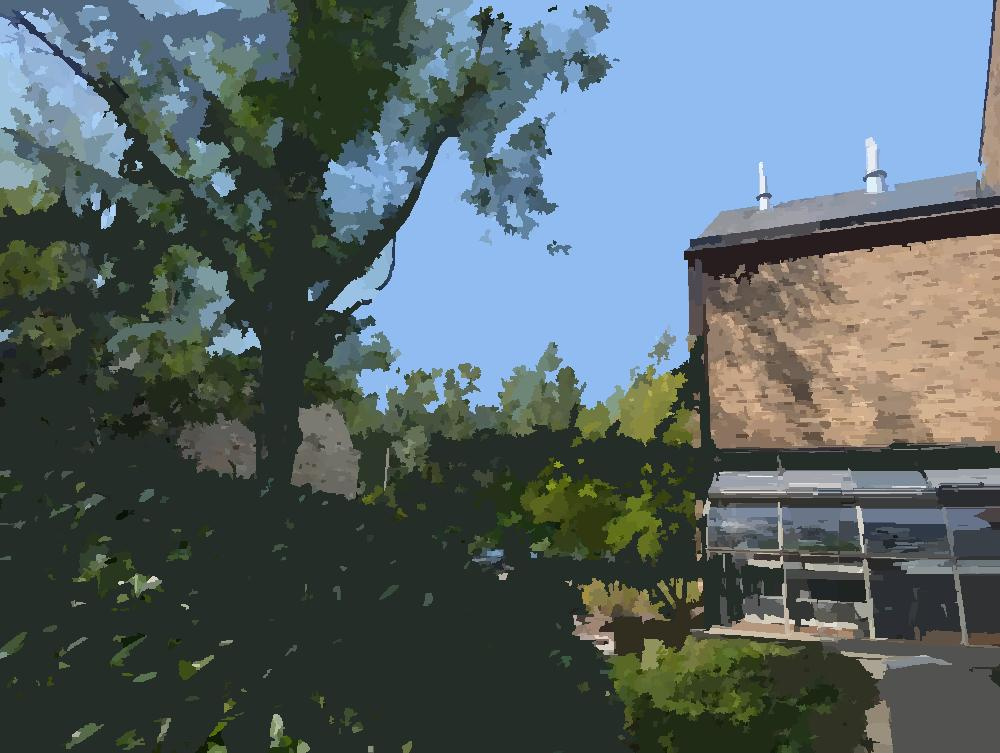
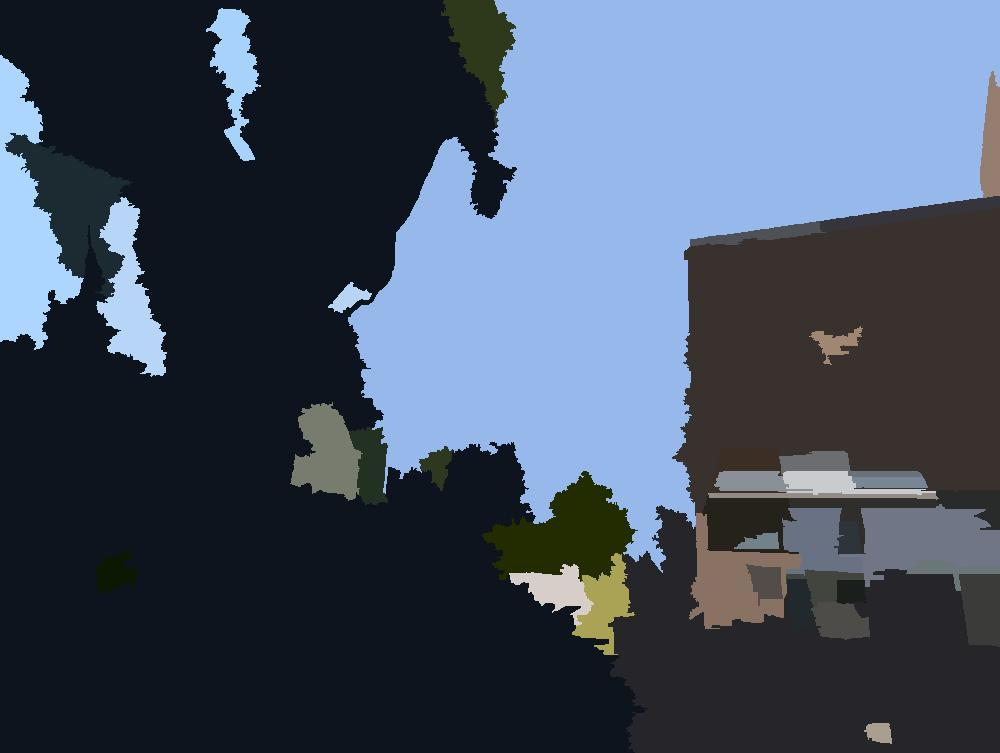
reset project

diff --git a/main.py b/main.py
@@ -1,14 +1,28 @@
-from . import color_averaged_uf as uf
+from .color_averaged_uf import ColorAveragedUF as UF
 from PIL import Image
 
 def segment_image(image, threshold = 100, min_size = 10):
     #TODO: Implement this method
     pass
 
+def diff(color1, color2):
+    """
+    Calculate the Euclidean squared difference between two colors.
+    Parameters:
+    color1 (tuple): A tuple representing the RGB values of the first color.
+    color2 (tuple): A tuple representing the RGB values of the second color.
+    Returns:
+    int: The squared difference between the two colors.
+    """
+    r1, g1, b1 = color1
+    r2, g2, b2 = color2
+
+    return (r1 - r2) ** 2 + (g1 - g2) ** 2 + (b1 - b2) ** 2
+
 def main():
-    image_name = "birdhouse.jpg"
+    image_name = "plants.jpg"
     image = Image.open("images/" + image_name)
-    segmented_image = uf.segment_image(image)
+    segmented_image = segment_image(image, threshold = 500, min_size = 400)
     segmented_image.save("output/" + image_name + "_segmented.jpg")
 
 if __name__ == "__main__":
